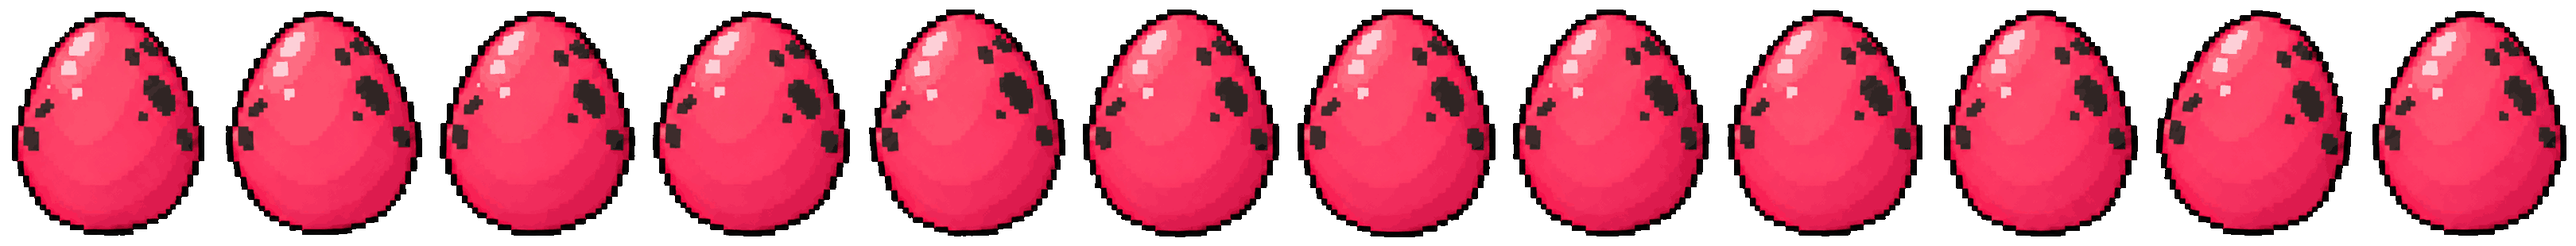
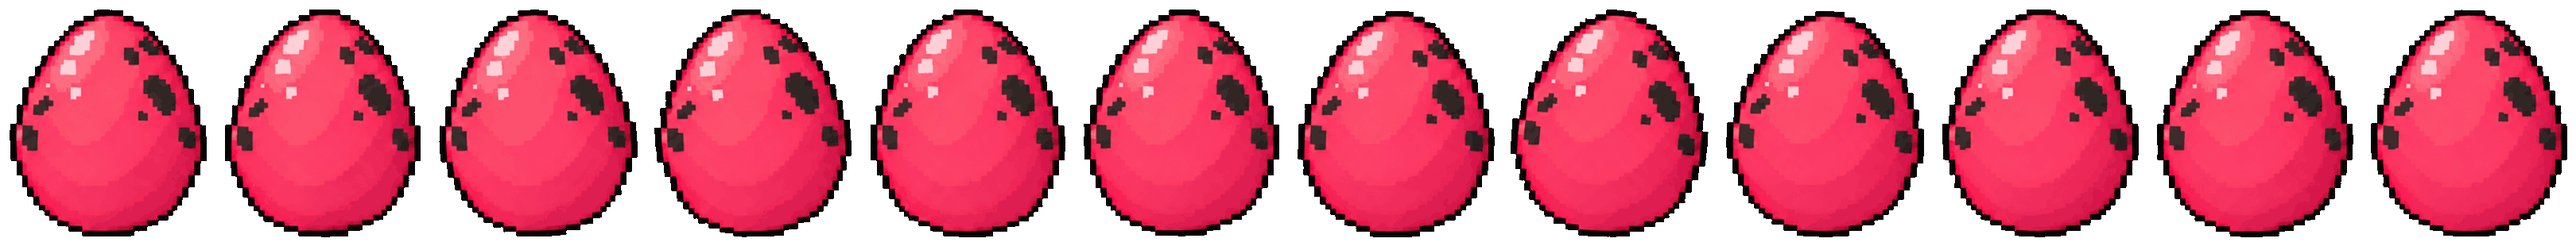
Crack the Cinder Egg as it levels
Five sheets arrived: three idles - intact, first split, full web - and the two
transitions between them. The egg becomes the one form whose art changes inside
its own stage, and the crack becomes its level-up celebration: intact at level
1, split at 2, webbed at 3, hatched at 5. Each clip ends on the frame its new
idle opens with, so the celebration and the change of art are one event rather
than a clip followed by a swap.

Getting that seamless took three things.

The packs draw each row of their grid 4 to 6% larger than the last, and with
five sheets that is not just a swell through one loop - it is a jump at every
handover between them. Every frame of every phase is scaled to one silhouette
area and anchored to one centre before packing: a 1.8% resample at worst, and
the shell then holds inside 1.5 CSS px of one ground line across all sixty
frames. That also retires the packing trick the intact egg shipped with, which
only hid the swell rather than removing it.

While a level-up is armed the pet is drawn as it was before it. Without that
you come home to an already cracked shell and then watch it crack, because the
level has already gone up by the time the celebration plays.

The egg's decisive crack lands on frame 9 of 12, which leaves the template no
frames to spend its settle on. Rather than let the clip run short, unspent
phase time now goes to the final hold - the shell sits there split open while
[…]

diff --git a/index.html b/index.html
@@ -1356,14 +1356,20 @@ function levelUpBeats(frames, gather, burst){
   gather = Math.max(0, Math.min(gather, burst));
   // the lead holds at a steady pace; whatever it leaves over is the build, so
   // a sheet that dawdles before its gold appears gathers faster, not later
-  const leadMs = Math.min(gather * T.hold, T.burstAt * .55);
-  const flash  = beatRamp(Math.min(2, Math.max(0, frames - burst - 1)), T.flash, 1);
+  const leadMs  = Math.min(gather * T.hold, T.burstAt * .55);
+  const flashN  = Math.min(2, Math.max(0, frames - burst - 1));
+  const settleN = Math.max(0, frames - burst - flashN - 1);
+  // a sheet that ends soon after its big moment has no frames left to spend a
+  // settle on - the egg's crack lands on its ninth frame of twelve. That time
+  // goes to the final hold instead, so the clip still runs to the same clock
+  // and the caption still arrives on the same beat as every other form's.
+  const spare = (flashN ? 0 : T.flash) + (settleN ? 0 : T.settle);
   return [
     ...beatRamp(gather, leadMs, 1),
     ...beatRamp(burst - gather, T.burstAt - leadMs, 170 / 90),
-    ...flash,
-    ...beatRamp(frames - burst - flash.length - 1, T.settle, 110 / 210),
-    T.last
+    ...beatRamp(flashN, T.flash, 1),
+    ...beatRamp(settleN, T.settle, 110 / 210),
+    T.last + spare
   ];
 }
 
@@ -1409,11 +1415,39 @@ function skillsFor(speciesId){ return SKILLS[speciesId] || []; }
 
 /* A form's own level-up celebration, keyed by species and stage so it only
    plays for the form it was drawn for. Missing art simply means no clip. */
+/* The Cinder Egg is the one form whose art changes inside its own stage. It
+   cracks as it levels - intact at level 1, a first split at 2, a full web at 3
+   - and the crack itself is the level-up celebration, so what the clip ends on
+   is what the idle takes over with. Every phase is packed to one silhouette
+   size and one position, so none of those handovers moves the shell. */
+const EGG_PHASES = [
+  { from:1, src:"art/ember-egg.png" },
+  { from:2, src:"art/ember-egg-cracked.png" },
+  { from:3, src:"art/ember-egg-breaking.png" }
+];
+function eggPhaseSrc(level){
+  let src = EGG_PHASES[0].src;
+  for (const p of EGG_PHASES) if (level >= p.from) src = p.src;
+  return src;
+}
+
 /** A celebration timed by the template above: mark the two frames, not all 16. */
 function levelUpClip(cfg){
   return { ...cfg, durations: levelUpBeats(cfg.frames, cfg.gather, cfg.burst) };
 }
 const LEVEL_UP_ART = {
+  // The egg does not flash gold - it splits. Its two clips carry the shell from
+  // one phase to the next and end on the frame the new idle opens with, so the
+  // celebration and the change of art are the same event. The decisive crack
+  // lands on frame 9 of 12, which leaves no frames for a settle; the template
+  // spends that time on the last frame instead, and the shell sits there split
+  // open while the caption arrives.
+  "ember:0@2": levelUpClip({ src:"art/ember-egg-crack-1.png", frames:12,
+    gather:2, burst:9, aspect:0.871, scale:0.71, dx:0, dy:-0.9,
+    cap:{ top:12, right:45 } }),
+  "ember:0@3": levelUpClip({ src:"art/ember-egg-crack-2.png", frames:12,
+    gather:2, burst:9, aspect:0.871, scale:0.71, dx:0, dy:-0.9,
+    cap:{ top:12, right:45 } }),
   // this one scowls and shuts its eyes for four frames before any gold shows,
   // so its build is shorter in frames and each of them holds longer. `cap`
   // brings the caption in to meet it: the baby draws 130px wide inside the
@@ -1426,7 +1460,13 @@ const LEVEL_UP_ART = {
   "ember:2": levelUpClip({ src:"art/levelup-blazewyrm.png", frames:16,
     gather:2, burst:7, aspect:1, scale:1.58, dx:2, dy:-1.1 })
 };
-function levelUpArt(speciesId, stage){ return LEVEL_UP_ART[speciesId + ":" + stage] || null; }
+/* Keyed by form, and by level where a form celebrates differently at different
+   levels - which so far is the egg, whose two crack clips belong to levels 2
+   and 3 rather than to the stage as a whole. */
+function levelUpArt(speciesId, stage, level){
+  const form = speciesId + ":" + stage;
+  return LEVEL_UP_ART[form + "@" + level] || LEVEL_UP_ART[form] || null;
+}
 
 /* GPS sanity filters */
 /* How much faster than real time a simulated run's clock may be wound. The
@@ -2385,11 +2425,12 @@ function spriteKey(species, stage){ return species + ":" + stage; }
    null there means "use the vector pet instead of this default". */
 const DEFAULT_SPRITES = {
   "ember:0": {
-    // The Cinder Egg. Its twelve frames barely differ - the shell's speckles
-    // shimmer, nothing travels - so they are packed smallest-out-and-back
-    // rather than as drawn: the pack's frames grow 4% in area from the first
-    // to the last, which as drawn is a slow swell and then a snap back at the
-    // loop. Packed this way the egg breathes instead.
+    // The Cinder Egg, and the src the level swaps - see EGG_PHASES. Its twelve
+    // frames barely differ: the shell's speckles shimmer, nothing travels. The
+    // packs draw each row of their grid a little larger than the last, 4 to 6%
+    // across a sheet, so every frame of every phase is normalised to one
+    // silhouette size and anchored to one position when packed. Otherwise the
+    // egg swells through its loop and jumps at every handover between phases.
     src:"art/ember-egg.png",
     frames:12, rows:1, fps:2, aspect:0.871, scale:0.71, dx:0, dy:-0.9
   },
@@ -2417,14 +2458,21 @@ const DEFAULT_SPRITES = {
 function spriteConfig(species, stage){
   const key = spriteKey(species, stage);
   const own = save.sprites[key];
-  return own !== undefined ? own : (DEFAULT_SPRITES[key] || null);
+  if (own !== undefined) return own;            // a pack you supplied is yours
+  const cfg = DEFAULT_SPRITES[key] || null;
+  // the egg is the one shipped sheet that changes inside its own stage
+  if (cfg && key === "ember:0"){
+    const now = (typeof derived === "object" && derived) ? derived.level : 1;
+    return { ...cfg, src: eggPhaseSrc(pendingLevelUp ? pendingLevelFrom : now) };
+  }
+  return cfg;
 }
 
 /* Bundled sheets keep their filename when the art changes, so a browser that
    already has one will happily go on showing the old drawing. Bump this and
    every cache along the way fetches the new file. Only the sheets that ship
    with the app are stamped; a sheet you point at yourself is used verbatim. */
-const ART_VERSION = "8";
+const ART_VERSION = "9";
 function assetURL(src){
   return /^art\//.test(src) ? src + "?v=" + ART_VERSION : src;
 }
@@ -2688,7 +2736,11 @@ function playSkill(id){
 /* A level earned on a run is celebrated on the pet screen, not over the
    summary - the run's numbers get read first, then you come home to the pet
    that grew. Set when the run is saved, spent on the next arrival home. */
-let pendingLevelUp = false, chargeTimer = null, charging = false;
+/* While a level-up is armed the pet is still shown as it was before it - the
+   celebration is what carries it across. That matters for the egg, whose art
+   changes with the level: without this you would come home to an already
+   cracked shell and then watch it crack. */
+let pendingLevelUp = false, pendingLevelFrom = 0, chargeTimer = null, charging = false;
 const LEVEL_UP_CHARGE_MS = 1500;
 /** Where the burst lands inside the clip, so the confetti goes off with it. */
 function burstOffsetMs(cfg){
@@ -2718,7 +2770,7 @@ function popLevelUp(art){
 }
 function playPendingLevelUp(){
   if (!pendingLevelUp || charging) return;
-  const art = levelUpArt(save.species, derived.stage);
+  const art = levelUpArt(save.species, derived.stage, derived.level);
   if (!art){ pendingLevelUp = false; return; }
   // let the screen settle first, or the wind-up starts behind the transition
   setTimeout(() => {
@@ -3426,9 +3478,15 @@ function finishRun(){
   persist();
 
   // arm the celebration for whichever form the pet is now, not the one it was
-  pendingLevelUp = derived.level > levelBefore && !!levelUpArt(save.species, derived.stage);
+  pendingLevelUp = derived.level > levelBefore && !!levelUpArt(save.species, derived.stage, derived.level);
+  pendingLevelFrom = levelBefore;
   // fetch it while the summary is being read, so it plays the moment you land
-  if (pendingLevelUp) probeSprite(levelUpArt(save.species, derived.stage).src);
+  if (pendingLevelUp){
+    probeSprite(levelUpArt(save.species, derived.stage, derived.level).src);
+    // and the sheet the clip hands back to, so the swap is not a blank frame
+    const after = spriteConfig(save.species, derived.stage);
+    if (after && after.src) probeSprite(after.src);
+  }
   showSummary(run, { levelBefore, stageBefore, celebrate:true });
   tracker.finished = false;
   tracker.segments = []; tracker.distanceM = 0;
@@ -3851,7 +3909,8 @@ function openDemoPanel(){
           closeSheet();
           const before = derived.level;
           Runmon.addRun(5, 28, 0);
-          pendingLevelUp = derived.level > before && !!levelUpArt(save.species, derived.stage);
+          pendingLevelUp = derived.level > before && !!levelUpArt(save.species, derived.stage, derived.level);
+          pendingLevelFrom = before;
           const r = save.runs[save.runs.length - 1];
           showSummary(r, { celebrate:true });
         } },

diff --git a/demo.html b/demo.html
@@ -22,7 +22,7 @@
   p{color:#8791a8;font-size:14px;line-height:1.65;margin:14px 0 0}
   .pet{
     width:191px;height:132px;margin:24px auto 4px;display:block;
-    background-image:url("art/ember-cinderling.png?v=8");
+    background-image:url("art/ember-cinderling.png?v=9");
     background-size:2292px 132px;          /* 12 frames of 191px */
     background-position:-573px 0;          /* frame 4 */
     background-repeat:no-repeat;

diff --git a/README.md b/README.md
@@ -86,12 +86,26 @@ from the nearest solid pixel and the mix ratio becomes the alpha. Flood the
 background in from the border rather than keying every neutral pixel, or the
 white highlight on the shell goes with it.
 
-Its twelve frames barely differ — the speckles shimmer, nothing travels — so
-they are packed in order of size rather than as drawn. The pack's frames grow
-4% in area from the first to the last, which played as drawn is a slow swell
-and a snap back at the loop; packed smallest-out-and-back the egg breathes, and
-the largest step between neighbours is 1.6%. Scale is set so the shell has the
-same painted area as the Cinderling that hatches from it — the vector egg it
+The egg cracks as it levels. It is the one form whose art changes inside its
+own stage — intact at level 1, a first split at 2, a full web at 3 — and the
+crack is the level-up celebration: `ember:0@2` and `ember:0@3` in
+`LEVEL_UP_ART` carry the shell from one phase to the next and end on the frame
+the new idle opens with, so the celebration and the change of art are one
+event. While a level-up is armed the pet is still drawn as it was *before* it,
+or you would come home to an already cracked shell and then watch it crack.
+
+Those clips sit inside the same timing template as every other celebration, but
+the egg's decisive crack lands on frame 9 of 12, leaving no frames for a
+settle. That time goes to the final hold instead — the shell sits there split
+open while **Level Up!** arrives — so the clip still runs to 2250ms and the
+caption still lands at 1380ms, the same as every other form's.
+
+All five phases — three idles and two transitions — are packed to one
+silhouette size and one position. The packs draw each row of their grid 4 to 6%
+larger than the last, which unpacked would make the egg swell through its loop
+and jump at every handover between phases. Normalised, the ground line moves
+1.5 CSS px across all sixty frames. Scale is set so the shell has the same
+painted area as the Cinderling that hatches from it — the vector egg it
 replaced had that relationship, and losing it makes the egg look bigger than
 the creature inside.
 

diff --git a/ART-SPEC.md b/ART-SPEC.md
@@ -121,9 +121,17 @@ later — the species currently reads as two ideas.
 
 Egg forms need far less than twelve frames — a pulse, a wobble, a crack. Four
 frames is plenty; supply what the form needs and say how many. The Cinder Egg
-came as twelve anyway, and they barely differ: the speckles shimmer and nothing
-travels. Frames like that are interchangeable, so they were packed in order of
-size rather than as drawn — see the note in `DEFAULT_SPRITES`.
+came as five sheets of twelve: three idles (intact, split, webbed) and the two
+transitions between them, which play as its level-up celebrations. Within an
+idle the frames barely differ — the speckles shimmer, nothing travels — while
+a transition's four rows are four crack states, three shimmer frames each.
+
+If a form ships as several sheets like that, they must agree on size and
+position or every handover jumps. These five did not: each row of each grid is
+drawn 4 to 6% larger than the last. Every frame of every sheet was scaled to
+one silhouette area and anchored to one centre before packing, which costs a
+1.8% resample at worst and leaves the shell inside 1.5 CSS px of one ground
+line across all sixty frames.
 
 Species should stay recognisably themselves across all five forms: same palette
 family, same silhouette language, same eyes. Ember reads as fire, Verdant as
